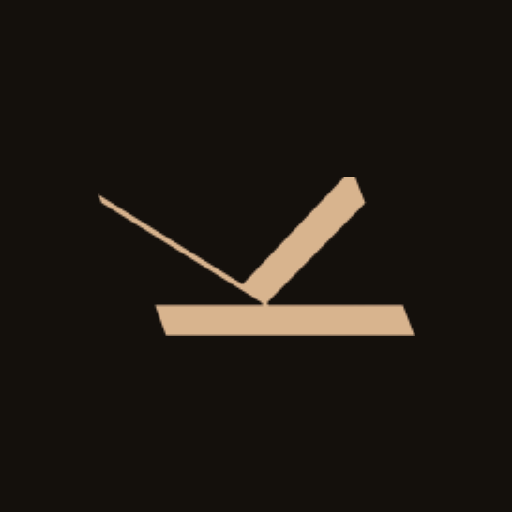
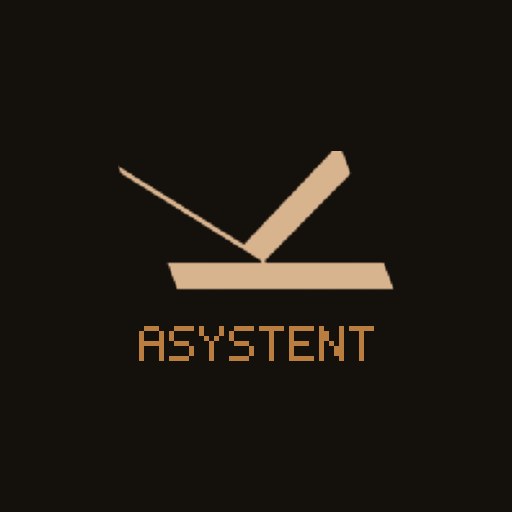
Ikona aplikacji z podpisem ASYSTENT i karta startowa na telefonie
IKONA: znak Partnerskich Klubow Biznesu, a pod nim podpis ASYSTENT w miedzi.
Litery rysowane wlasnym krojem 5x7 w skrypcie ikon (czysty Node, zero paczek),
zawsze w calkowitej skali, zeby nie wychodzily rozmyte. Favikona 96 px zostaje
bez podpisu, bo w tej skali litery bylyby plama.

NAZWA POD IKONA na ekranie telefonu to teraz "Asystent" (short_name w manifescie
oraz appleWebApp.title dla iPhone'a). Wczesniej bylo "Asystent PKB".

KARTA STARTOWA: po wejsciu na telefonie pokazuje sie jedno miejsce z trzema
rzeczami do ustawienia: dodanie do ekranu glownego, mikrofon i powiadomienia.
Kazda pozycja ma wlasny przycisk i znika po wlaczeniu.

UCZCIWE OGRANICZENIE, ktorego nie da sie obejsc: przegladarka pozwala zapytac
o mikrofon i powiadomienia WYLACZNIE po dotknieciu ekranu, wiec nie da sie ich
wlaczyc automatycznie przy starcie. Zamiast udawac automat, dajemy dwa przyciski.
Na iPhonie powiadomienia dzialaja dopiero po dodaniu do ekranu glownego i karta
mowi to wprost.

Poprawiona luka: gdy przegladarka miala juz zablokowany mikrofon, karta w ogole
sie nie pokazywala i prezes nie wiedzialby, co odblokowac. Teraz pokazuje sie
z komunikatem, gdzie to zmienic.

Changed region(s): [[0.1875, 0.2812, 0.8125, 0.7188], [0.25, 0.3438, 0.4062, 0.4375], [0.2188, 0.3125, 0.25, 0.3438]]

diff --git a/app/src/components/ZachetaPWA.tsx b/app/src/components/ZachetaPWA.tsx
@@ -1,75 +1,236 @@
 'use client';
 
-import { useEffect, useState } from 'react';
+import { useCallback, useEffect, useState } from 'react';
 
 type ZdarzenieInstalacji = Event & { prompt: () => Promise<void>; userChoice: Promise<{ outcome: string }> };
+type Zgoda = 'nieznana' | 'brak' | 'tak' | 'nie';
 
 /**
- * Zachęta do zainstalowania aplikacji na telefonie.
- * Android i desktop: przycisk instalacji. iPhone: instrukcja, bo Safari nie daje przycisku.
+ * Pierwsze uruchomienie na telefonie: najpierw zaproszenie do zainstalowania aplikacji,
+ * a zaraz po nim jedno miejsce, w którym prezes włącza mikrofon i powiadomienia.
+ *
+ * WAŻNE OGRANICZENIE PRZEGLĄDAREK, którego nie da się obejść: o mikrofon i o powiadomienia
+ * wolno zapytać WYŁĄCZNIE w odpowiedzi na dotknięcie ekranu. Nie da się ich włączyć samemu
+ * przy starcie. Dlatego zamiast udawać automat, pokazujemy dwa duże przyciski.
+ * Na iPhonie powiadomienia działają dopiero po dodaniu aplikacji do ekranu głównego.
  */
+
+/** Zamienia klucz z serwera na format wymagany przez przegladarke. */
+function doTablicy(base64: string) {
+  const uzupelnienie = '='.repeat((4 - (base64.length % 4)) % 4);
+  const czysty = (base64 + uzupelnienie).replace(/-/g, '+').replace(/_/g, '/');
+  const surowe = atob(czysty);
+  return Uint8Array.from([...surowe].map((z) => z.charCodeAt(0)));
+}
+
 export function ZachetaPWA() {
   const [zdarzenie, setZdarzenie] = useState<ZdarzenieInstalacji | null>(null);
   const [iphone, setIphone] = useState(false);
+  const [telefon, setTelefon] = useState(false);
+  const [zainstalowana, setZainstalowana] = useState(false);
   const [ukryte, setUkryte] = useState(true);
 
-  useEffect(() => {
-    if (localStorage.getItem('pkb-instalacja-ukryta') === '1') return;
+  const [mikrofon, setMikrofon] = useState<Zgoda>('nieznana');
+  const [dzwonek, setDzwonek] = useState<Zgoda>('nieznana');
+  const [pracuje, setPracuje] = useState<'mikrofon' | 'dzwonek' | null>(null);
 
-    const juzZainstalowana =
+  const sprawdzZgody = useCallback(async () => {
+    // Mikrofon pokazujemy tylko wtedy, gdy serwer ma czym rozpoznawac mowe.
+    try {
+      const r = await fetch('/api/transkrypcja');
+      const d = await r.json();
+      if (!d.skonfigurowane || !navigator.mediaDevices?.getUserMedia) setMikrofon('brak');
+      else if (navigator.permissions?.query) {
+        try {
+          const s = await navigator.permissions.query({ name: 'microphone' as PermissionName });
+          setMikrofon(s.state === 'granted' ? 'tak' : s.state === 'denied' ? 'nie' : 'nieznana');
+        } catch {
+          setMikrofon('nieznana');
+        }
+      }
+    } catch {
+      setMikrofon('brak');
+    }
+
+    if (typeof Notification === 'undefined' || !('PushManager' in window)) setDzwonek('brak');
+    else if (Notification.permission === 'granted') setDzwonek('tak');
+    else if (Notification.permission === 'denied') setDzwonek('nie');
+    else setDzwonek('nieznana');
+  }, []);
+
+  useEffect(() => {
+    const wStandalone =
       window.matchMedia('(display-mode: standalone)').matches ||
       (window.navigator as unknown as { standalone?: boolean }).standalone === true;
-    if (juzZainstalowana) return;
+    setZainstalowana(wStandalone);
+    setTelefon(window.matchMedia('(max-width: 820px)').matches || /android|iphone|ipad|ipod/i.test(navigator.userAgent));
+    setIphone(/iphone|ipad|ipod/i.test(navigator.userAgent));
 
-    const toIphone = /iphone|ipad|ipod/i.test(navigator.userAgent);
-    if (toIphone) {
-      setIphone(true);
-      setUkryte(false);
-      return;
-    }
+    void sprawdzZgody();
 
     const naZdarzenie = (e: Event) => {
       e.preventDefault();
       setZdarzenie(e as ZdarzenieInstalacji);
-      setUkryte(false);
     };
     window.addEventListener('beforeinstallprompt', naZdarzenie);
+
+    if (localStorage.getItem('pkb-start-ukryty') !== '1') setUkryte(false);
     return () => window.removeEventListener('beforeinstallprompt', naZdarzenie);
-  }, []);
+  }, [sprawdzZgody]);
+
+  async function wlaczMikrofon() {
+    setPracuje('mikrofon');
+    try {
+      const strumien = await navigator.mediaDevices.getUserMedia({ audio: true });
+      strumien.getTracks().forEach((t) => t.stop());
+      setMikrofon('tak');
+    } catch {
+      setMikrofon('nie');
+    } finally {
+      setPracuje(null);
+    }
+  }
+
+  async function wlaczDzwonek() {
+    setPracuje('dzwonek');
+    try {
+      const zgoda = await Notification.requestPermission();
+      if (zgoda !== 'granted') {
+        setDzwonek('nie');
+        return;
+      }
+      const { klucz, dostepne } = await (await fetch('/api/push')).json();
+      if (!dostepne) {
+        setDzwonek('brak');
+        return;
+      }
+      const rej = await navigator.serviceWorker.register('/sw.js');
+      await navigator.serviceWorker.ready;
+      const sub =
+        (await rej.pushManager.getSubscription()) ??
+        (await rej.pushManager.subscribe({ userVisibleOnly: true, applicationServerKey: doTablicy(klucz) }));
+      await fetch('/api/push', {
+        method: 'POST',
+        headers: { 'Content-Type': 'application/json' },
+        body: JSON.stringify(sub.toJSON()),
+      });
+      setDzwonek('tak');
+    } catch {
+      setDzwonek('nie');
+    } finally {
+      setPracuje(null);
+    }
+  }
 
   function schowaj() {
-    localStorage.setItem('pkb-instalacja-ukryta', '1');
+    localStorage.setItem('pkb-start-ukryty', '1');
     setUkryte(true);
   }
 
-  if (ukryte) return null;
+  const trzebaInstalowac = !zainstalowana && (Boolean(zdarzenie) || (iphone && telefon));
+  // Pokazujemy karte takze wtedy, gdy przegladarka juz cos ZABLOKOWALA. Inaczej prezes
+  // nie dowiedzialby sie, dlaczego mikrofon nie dziala i gdzie to odblokowac.
+  const trzebaZgody = [mikrofon, dzwonek].some((s) => s === 'nieznana' || s === 'nie');
+  if (ukryte || (!trzebaInstalowac && !trzebaZgody)) return null;
+
+  const Wiersz = ({
+    tytul,
+    opis,
+    stan,
+    klucz,
+    wlacz,
+  }: {
+    tytul: string;
+    opis: string;
+    stan: Zgoda;
+    klucz: 'mikrofon' | 'dzwonek';
+    wlacz: () => void;
+  }) => {
+    if (stan === 'brak') return null;
+    return (
+      <li className="flex items-center gap-3 border-t border-pkb-border-soft px-4 py-3">
+        <div className="min-w-0 flex-1">
+          <p className="text-[13.5px] font-medium">{tytul}</p>
+          <p className="mt-0.5 text-[12px] leading-snug text-pkb-muted">
+            {stan === 'nie' ? 'Zablokowane w przeglądarce. Odblokuj to w jej ustawieniach dla tej strony.' : opis}
+          </p>
+        </div>
+        {stan === 'tak' ? (
+          <span className="grid size-7 shrink-0 place-items-center rounded-full bg-emerald-900/40 text-emerald-300">
+            <svg viewBox="0 0 24 24" className="size-3.5" fill="none" stroke="currentColor" strokeWidth="3" strokeLinecap="round" strokeLinejoin="round"><path d="M20 6L9 17l-5-5" /></svg>
+          </span>
+        ) : (
+          <button
+            onClick={wlacz}
+            disabled={pracuje === klucz || stan === 'nie'}
+            className="shrink-0 rounded-lg border border-pkb-copper/60 px-3 py-1.5 text-[12.5px] text-pkb-gold transition hover:bg-pkb-copper/15 disabled:opacity-40"
+          >
+            {pracuje === klucz ? '...' : 'Włącz'}
+          </button>
+        )}
+      </li>
+    );
+  };
 
   return (
-    <div className="pkb-wejscie mb-4 flex items-center gap-3 rounded-xl border border-pkb-copper/40 bg-pkb-copper/10 px-4 py-3">
-      <svg viewBox="0 0 24 24" className="size-5 shrink-0 text-pkb-gold" fill="none" stroke="currentColor" strokeWidth="1.7" strokeLinecap="round" strokeLinejoin="round">
-        <rect x="5" y="2" width="14" height="20" rx="2" />
-        <path d="M12 18h.01" />
-      </svg>
-      <p className="min-w-0 flex-1 text-[13px] leading-snug text-pkb-text">
-        {iphone ? (
-          <>Dodaj do ekranu głównego: przycisk <strong>Udostępnij</strong>, potem <strong>Dodaj do ekranu początkowego</strong>.</>
-        ) : (
-          <>Zainstaluj asystenta jako aplikację na telefonie.</>
-        )}
-      </p>
-      {zdarzenie ? (
-        <button
-          onClick={async () => {
-            await zdarzenie.prompt();
-            await zdarzenie.userChoice;
-            schowaj();
-          }}
-          className="shrink-0 rounded-lg bg-pkb-gold px-3 py-1.5 text-[12.5px] font-medium text-pkb-bg transition hover:bg-pkb-gold-strong"
-        >
-          Zainstaluj
-        </button>
-      ) : null}
-      <button onClick={schowaj} aria-label="Ukryj" className="shrink-0 text-pkb-muted transition hover:text-pkb-text">×</button>
-    </div>
+    <section className="pkb-wejscie mb-4 overflow-hidden rounded-2xl border border-pkb-copper/40 bg-pkb-copper/10">
+      <header className="flex items-start gap-3 px-4 py-3">
+        <svg viewBox="0 0 24 24" className="mt-0.5 size-5 shrink-0 text-pkb-gold" fill="none" stroke="currentColor" strokeWidth="1.7" strokeLinecap="round" strokeLinejoin="round">
+          <rect x="5" y="2" width="14" height="20" rx="2" />
+          <path d="M12 18h.01" />
+        </svg>
+        <div className="min-w-0 flex-1">
+          <p className="text-[14px] font-medium">Ustaw asystenta na telefonie</p>
+          <p className="mt-0.5 text-[12.5px] leading-snug text-pkb-muted">
+            Chwila roboty, a potem asystent działa jak zwykła aplikacja.
+          </p>
+        </div>
+        <button onClick={schowaj} aria-label="Ukryj" className="shrink-0 text-pkb-muted transition hover:text-pkb-text">×</button>
+      </header>
+
+      <ul>
+        {trzebaInstalowac ? (
+          <li className="flex items-center gap-3 border-t border-pkb-border-soft px-4 py-3">
+            <div className="min-w-0 flex-1">
+              <p className="text-[13.5px] font-medium">Dodaj do ekranu głównego</p>
+              <p className="mt-0.5 text-[12px] leading-snug text-pkb-muted">
+                {iphone ? (
+                  <>Przycisk <strong>Udostępnij</strong>, potem <strong>Dodaj do ekranu początkowego</strong>. Na iPhonie powiadomienia działają dopiero po tym kroku.</>
+                ) : (
+                  <>Ikona z logo klubu, podpis „Asystent". Otwiera się bez paska przeglądarki.</>
+                )}
+              </p>
+            </div>
+            {zdarzenie ? (
+              <button
+                onClick={async () => {
+                  await zdarzenie.prompt();
+                  await zdarzenie.userChoice;
+                  setZdarzenie(null);
+                }}
+                className="shrink-0 rounded-lg bg-pkb-gold px-3 py-1.5 text-[12.5px] font-medium text-pkb-bg transition hover:bg-pkb-gold-strong"
+              >
+                Zainstaluj
+              </button>
+            ) : null}
+          </li>
+        ) : null}
+
+        <Wiersz
+          tytul="Mikrofon"
+          opis="Żebyś mógł dyktować zamiast pisać."
+          stan={mikrofon}
+          klucz="mikrofon"
+          wlacz={() => void wlaczMikrofon()}
+        />
+        <Wiersz
+          tytul="Powiadomienia"
+          opis="Sygnał na telefon, gdy asystent skończy dłuższą pracę."
+          stan={dzwonek}
+          klucz="dzwonek"
+          wlacz={() => void wlaczDzwonek()}
+        />
+      </ul>
+    </section>
   );
 }

diff --git a/app/src/app/layout.tsx b/app/src/app/layout.tsx
@@ -6,7 +6,8 @@ export const metadata: Metadata = {
   title: 'Asystent Prezesa PKB',
   description: 'Asystent AI Partnerskich Klubów Biznesu',
   manifest: '/manifest.webmanifest',
-  appleWebApp: { capable: true, statusBarStyle: 'black-translucent', title: 'Asystent PKB' },
+  // title = napis pod ikona na iPhonie, odpowiednik short_name z manifestu.
+  appleWebApp: { capable: true, statusBarStyle: 'black-translucent', title: 'Asystent' },
 };
 
 export const viewport: Viewport = {

diff --git a/app/src/app/manifest.ts b/app/src/app/manifest.ts
@@ -3,7 +3,9 @@ import type { MetadataRoute } from 'next';
 export default function manifest(): MetadataRoute.Manifest {
   return {
     name: 'Asystent Prezesa PKB',
-    short_name: 'Asystent PKB',
+    // To wlasnie ten napis widac pod ikona na ekranie telefonu. Musi byc krotki,
+    // bo dluzsze nazwy telefon i tak ucina wielokropkiem.
+    short_name: 'Asystent',
     description: 'Asystent AI Partnerskich Klubów Biznesu',
     start_url: '/',
     display: 'standalone',
